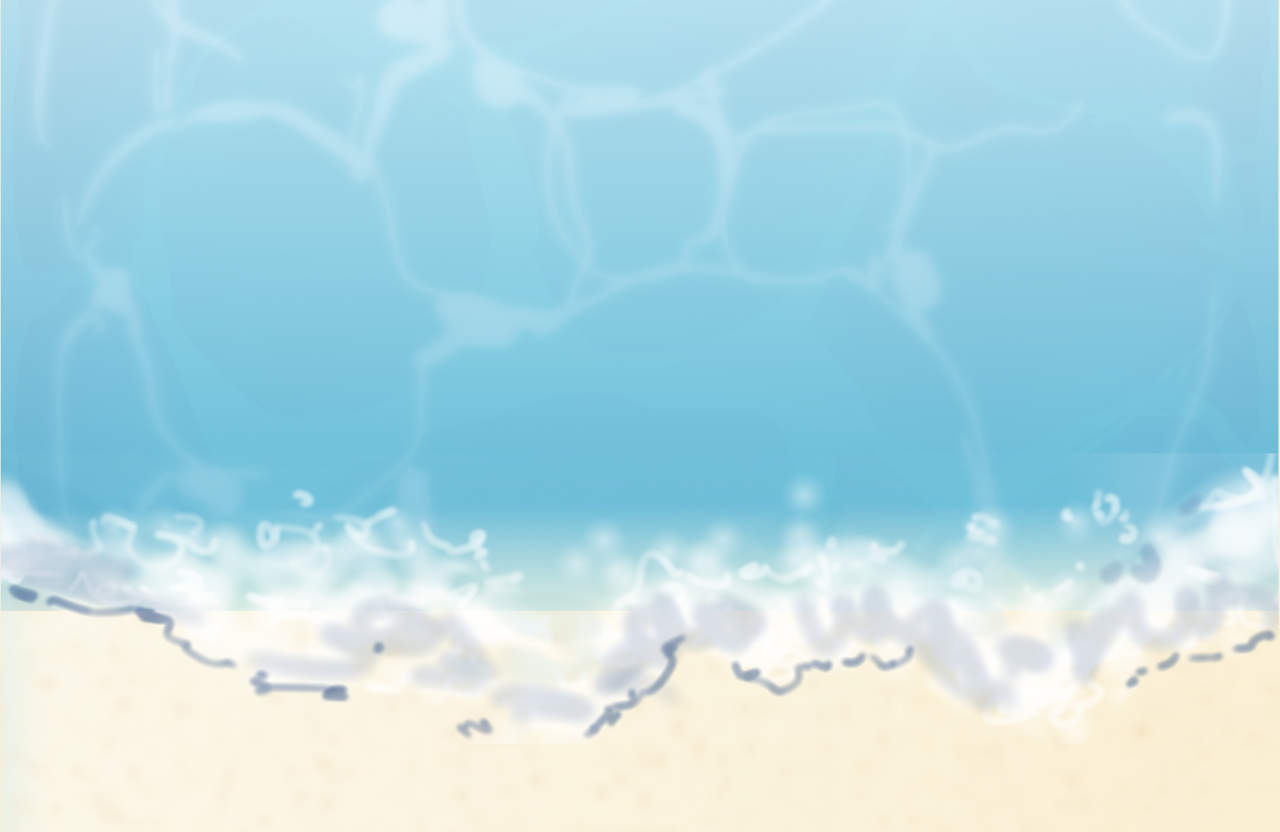
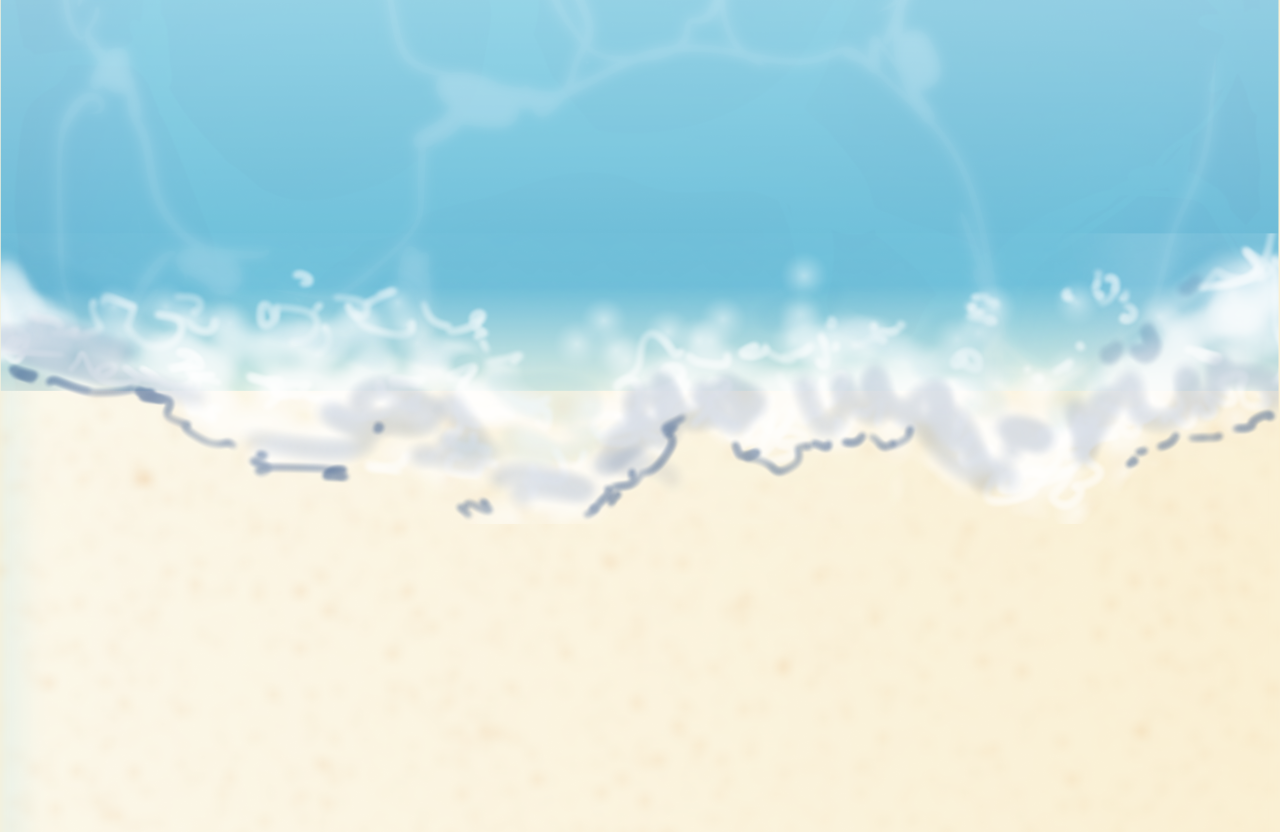
Finished the vlog & styling!  Updated script.js a tiny bit.

diff --git a/index.html b/index.html
@@ -43,7 +43,7 @@
                         <li>Organized all my stuff</li>
                         <li>Started a shopping list for our vacation</li>
                         <li>Went to Wallmart and got distracted by a cute duck plushie</li>
-                        <li>Went back to AirBnB and enjoy the pool :D</li>
+                        <li>Went back to AirBnB and enjoyed the pool :D</li>
                     </ol>
                 </div>
 
@@ -61,6 +61,49 @@
 
                     <a href="https://maps.app.goo.gl/GAu6yNMapDoGTYA38">Englewood Beach</a>
                     
+                </div>
+            </div>
+
+            <div class="day-cards">
+                <div class="day-description">
+                    <h2>Day3: Siesta Beach & Relax</h2>
+                    <p>With a sunny sky, we went Siesta Beach. This was the most relaxing beach I ever been to!</p>
+                    <ul>
+                        <li>Soft sand that never got too hot</li>
+                        <li>Soft waves and cool waters</li>
+                        <li>Shallow water</li>
+                        <li>Amenities & rentals</li>
+                    </ul>
+
+                    <p>10/10 check it out if it sounds like your vibe!</p>
+                    <a href="https://maps.app.goo.gl/54Go4Rq2kustDS238">Siesta Beach</a>
+                </div>
+
+                <div class="day-description">
+                    <h2>Day 4: Rest & Monopoly</h2>
+                    <p>Finally a day dedicated to the pool at the AirBnB!</p>
+                    <p>We had pancakes and pizzas, while playing a 2 loong games of Monopoly! Did I go bankrupt multiple times? Yes! Did my dad survive a whole round with $2? Yes! (don't ask me how)</p>
+
+                    <p>After, we packed up and got ready to leave the AirBnB the next day.</p>
+                </div>
+            </div>
+
+            <div class="day-cards">
+                <div class="day-description">
+                    <h2>Day 5: Lagoon & Home</h2>
+                    <p>We finished cleaning out the house and said our goodbyes!</p>
+                    <p>Arriving at Metro Water Lagoon was amazing! There were many things available:</p>
+
+                    <ul>
+                        <li>Cabana</li>
+                        <li>Water park</li>
+                        <li>Slide</li>
+                        <li>Endless pool</li>
+                        <li>Kayacking</li>
+                    </ul>
+
+                    <p>Although a storm did come and took out about 2 hours of our day, we had so much fun with nice food and lovely pool!</p>
+                    <p>And thus, we go home.</p>
                 </div>
             </div>
 

diff --git a/style.css b/style.css
@@ -19,24 +19,26 @@ h1 {
     font-size: 60px;
     margin-top: 15px;
     font-style: italic;
+    color: #FEE48B; 
 }
 
-p, ol, ul, a {
+p, ol, ul, a, button {
     margin: 5px;
     font-family: "Bricolage Grotesque", sans-serif;
     font-optical-sizing: auto;
     font-weight: 300;
     font-style: normal;
     font-variation-settings: 50 100;
-
+    color: #0E387A;
 }
 
 a, button {
     background-color: #FFC7DA;
-    color: #0E387A;
+    font-size: 15px;
     font-weight: 900;
     margin: 5px;
     padding: 15px 60px;
+    border: none;
     border-radius: 10px;
     text-decoration: none;
 }
@@ -58,6 +60,14 @@ header {
     height: auto;
 }
 
+.gallery {
+    display: flex;
+    flex-direction: row;
+    flex-wrap: wrap;
+    justify-content: center;
+    align-items: center;
+}
+
 main {
     width: 100%;
     background-image: url("./assets/SandBkg.png");
@@ -76,6 +86,7 @@ main {
     justify-content: center; 
     align-items: center;
     gap: 30px;
+    margin: 30px;
     flex-wrap: wrap;
 }
 
@@ -94,6 +105,7 @@ main {
 
 img {
     margin: 12px;
+    border-radius: 10px;
     width: 250px; 
 }
 

diff --git a/script.js b/script.js
@@ -1,4 +1,4 @@
 
 function clickHello() {
-    alert("hello");
+    alert("And thus, we end our vacation :)");
 }
